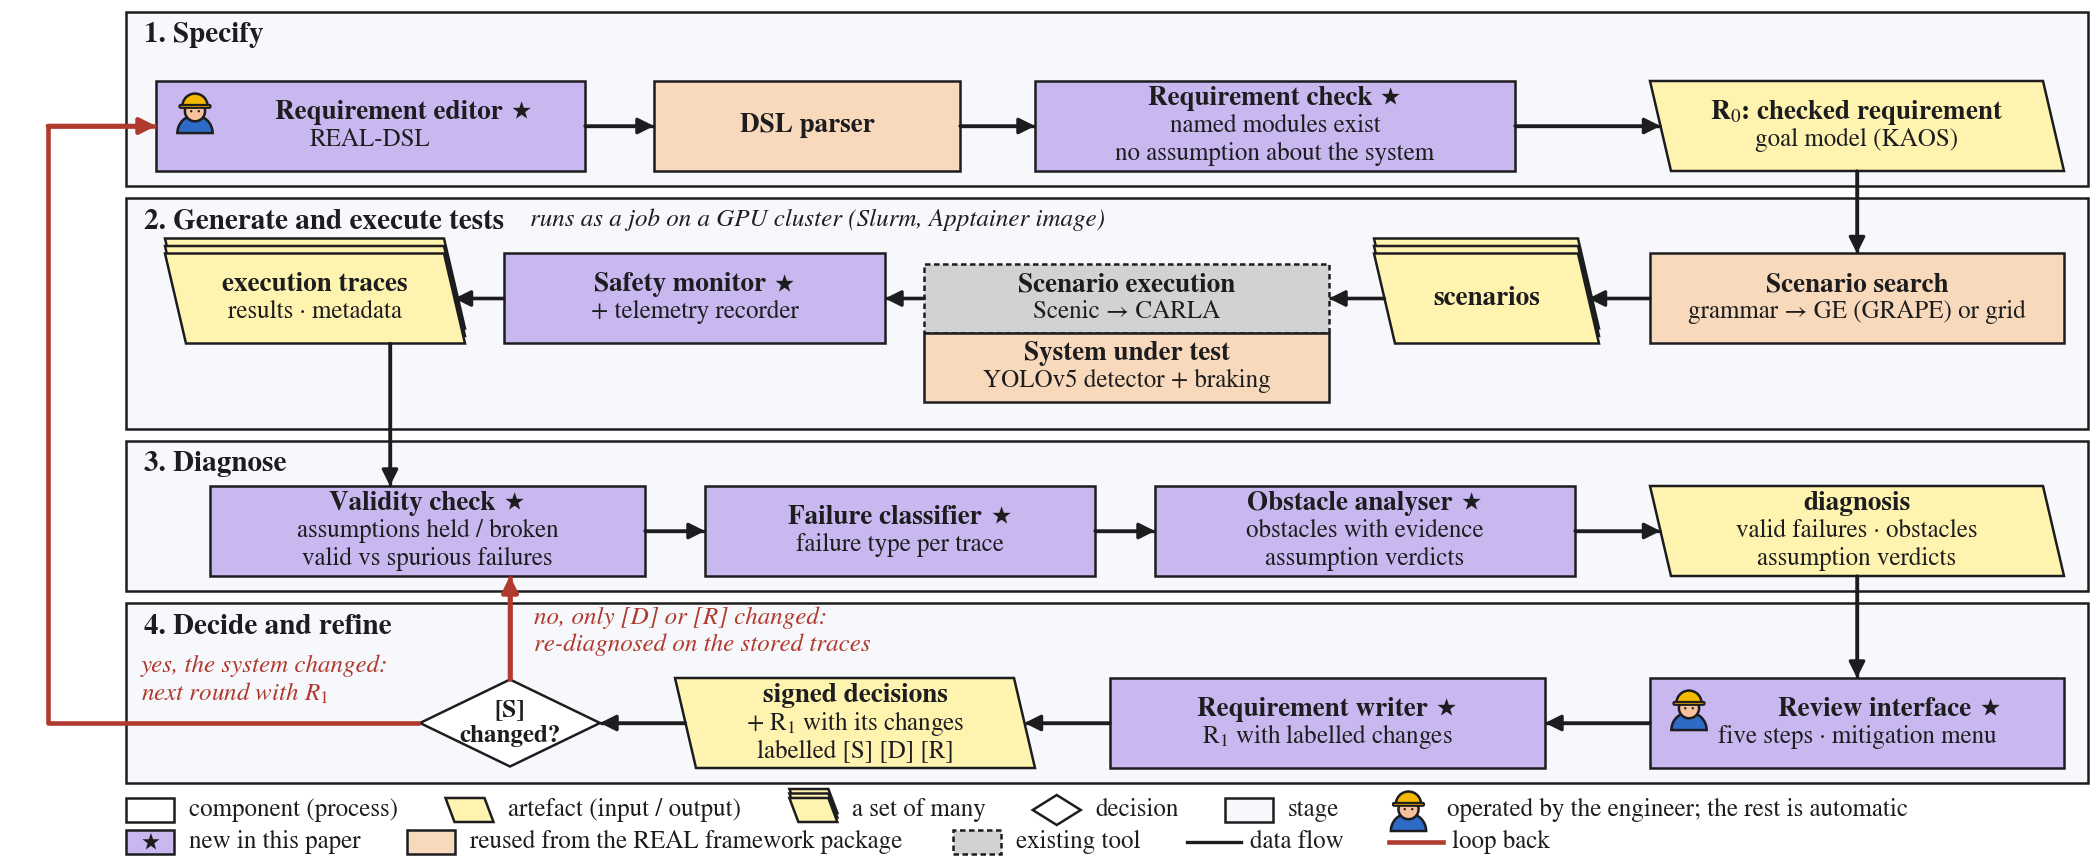
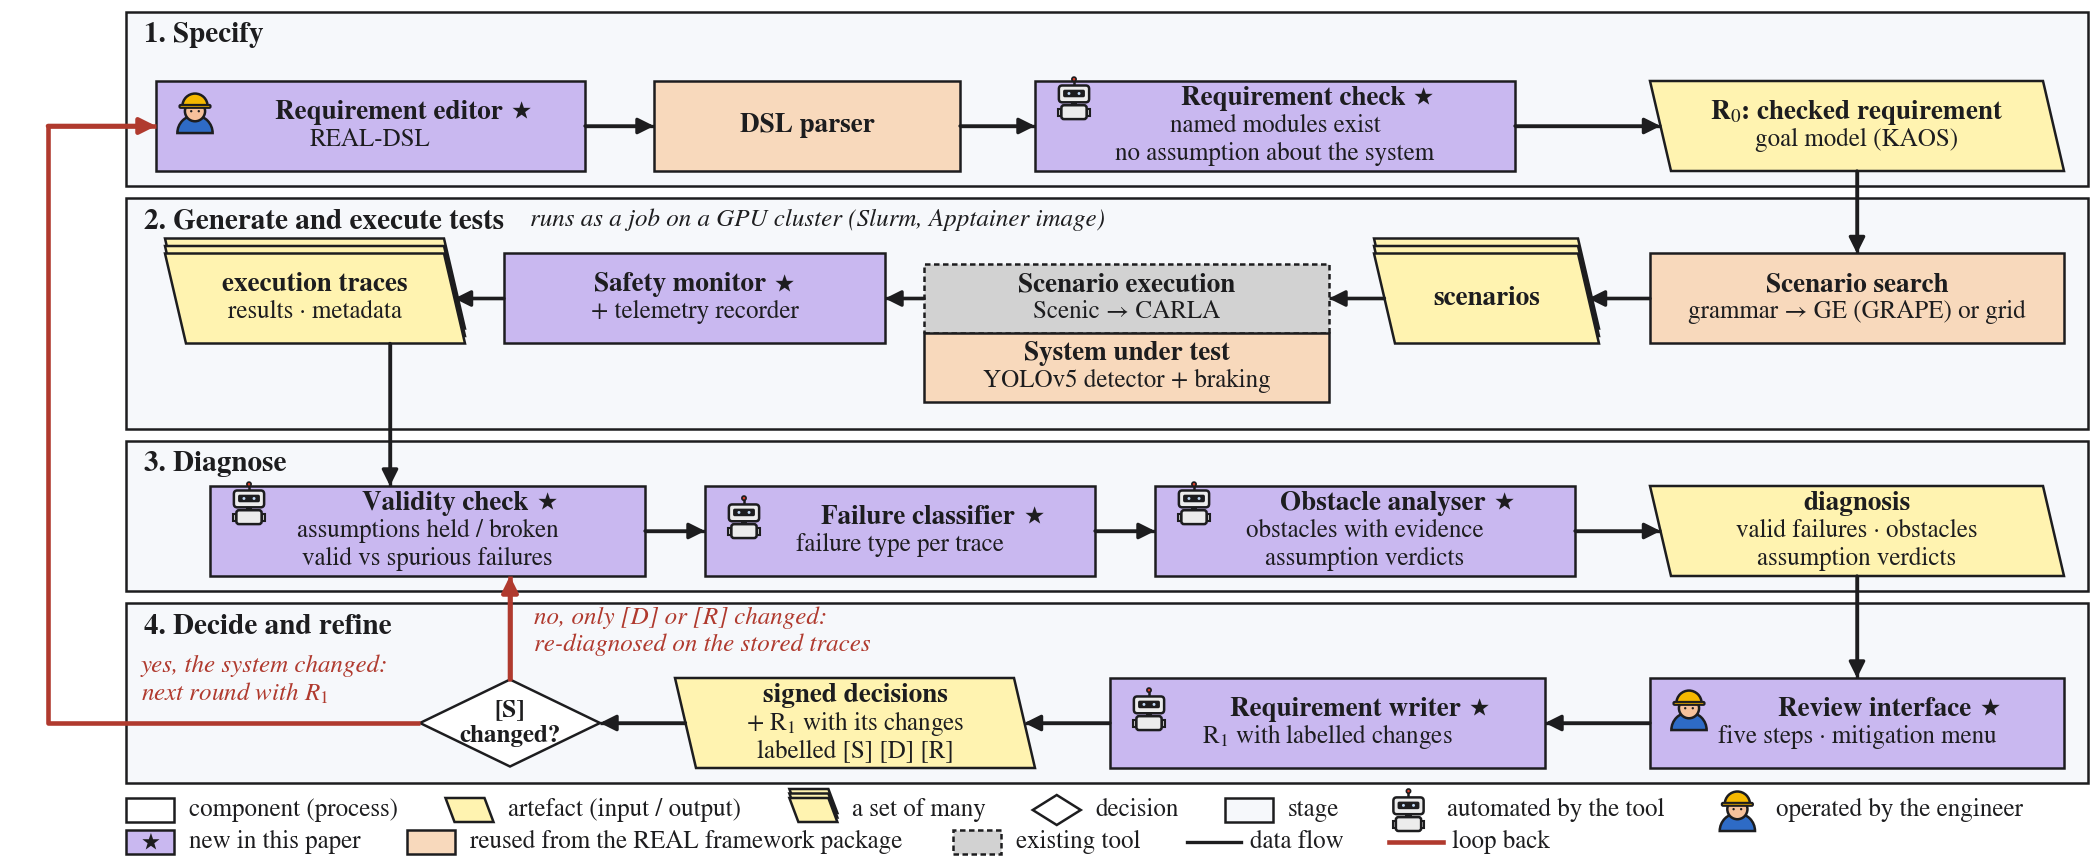
Fig. 1 v2: robot glyph on the five components that automate the framework's manual steps; caption aligned

diff --git a/docs/paper/latex/figures/make_fig1_v2.py b/docs/paper/latex/figures/make_fig1_v2.py
@@ -12,8 +12,9 @@ legend overflows the width.
 Flowchart rules (ISO 5807 / ANSI, as the owner stated them):
   rectangle = process (a component) · parallelogram = input/output (an
   artefact; stacked = a set of many) · diamond = decision · frame = stage
-Actor: one glyph, inside the two components a person operates (the engineer);
-  every other component runs automatically, which the legend states once
+Actors, inside the box they index, only where it matters: the engineer in the
+  two components a person operates; the robot in the five that automate work
+  the framework paper left to people (check, validity, classify, obstacles, write)
 Colour = provenance: violet + star = new in this paper · orange = reused from
   the REAL framework package · grey, dashed border = existing tool · yellow =
   artefact
@@ -67,6 +68,27 @@ def text(x, y, s, size=T_SUB, fit=None, **kw):
     return t
 
 
+def glyph_robot(cx, cy, h):
+    """The tool: a robot (antenna, visor with two eyes, body), drawn as vector patches."""
+    s = h
+    ax.plot([cx, cx], [cy + 0.30 * s, cy + 0.41 * s], color=INK, lw=0.6, zorder=9)
+    ax.add_patch(Circle((cx, cy + 0.45 * s), 0.05 * s, fc="#D9402B", ec=INK, lw=0.4, zorder=9))
+    ax.add_patch(FancyBboxPatch((cx - 0.36 * s, cy - 0.10 * s), 0.72 * s, 0.40 * s,
+                                boxstyle=f"round,pad=0,rounding_size={0.08 * s}",
+                                fc="#ECECEC", ec=INK, lw=0.6, zorder=9))
+    ax.add_patch(FancyBboxPatch((cx - 0.26 * s, cy + 0.02 * s), 0.52 * s, 0.18 * s,
+                                boxstyle=f"round,pad=0,rounding_size={0.04 * s}", fc=INK, ec="none", zorder=10))
+    for dx in (-0.12, 0.12):
+        ax.add_patch(Circle((cx + dx * s, cy + 0.11 * s), 0.035 * s, fc="#BFD8F5", ec="none", zorder=11))
+    ax.add_patch(Rectangle((cx - 0.08 * s, cy - 0.17 * s), 0.16 * s, 0.07 * s, fc=INK, ec="none", zorder=9))
+    ax.add_patch(FancyBboxPatch((cx - 0.30 * s, cy - 0.50 * s), 0.60 * s, 0.33 * s,
+                                boxstyle=f"round,pad=0,rounding_size={0.06 * s}",
+                                fc="#ECECEC", ec=INK, lw=0.6, zorder=9))
+    for sx in (-1, 1):
+        ax.add_patch(Rectangle((cx + sx * 0.34 * s - 0.04 * s, cy - 0.42 * s), 0.08 * s, 0.17 * s,
+                               fc="#CFCFCF", ec=INK, lw=0.5, zorder=8))
+
+
 def glyph_engineer(cx, cy, h):
     """The engineer: hard hat with a brim, face, shoulders, drawn as vector patches."""
     s = h
@@ -81,7 +103,7 @@ def glyph_engineer(cx, cy, h):
 
 
 def icon(name, cx, cy, h=ICON_H):
-    glyph_engineer(cx, cy, h)
+    (glyph_robot if name == "robot" else glyph_engineer)(cx, cy, h)
 
 
 def star_after(t, size):
@@ -101,8 +123,8 @@ def arrow(points, color=INK, lw=0.8, ls="-", z=6, head_len=0.32):
 # ------------------------------------------------------------------ shapes
 def component(x, y, w, h, kind, actor, title, lines=()):
     """A process: rectangle. kind: 'new' (violet, star), 'framework' (orange),
-    'tool' (grey, dashed). actor: 'engineer' where a person operates it, else None
-    (every other component runs automatically; the legend says so once)."""
+    'tool' (grey, dashed). actor: 'engineer' where a person operates it, 'robot'
+    where the tool automates work the framework paper left to people, else None."""
     fill = {"new": NEW, "framework": FRAMEWORK, "tool": TOOL}[kind]
     ax.add_patch(Rectangle((x, y), w, h, fc=fill, ec=INK, lw=0.6,
                            ls=DASHED if kind == "tool" else "-", zorder=3))
@@ -167,7 +189,7 @@ frame(0.25, 0.85, "4. Decide and refine")
 y, yc = 2.29, 2.44
 component(0.52, y, 1.43, BH, "new", "engineer", "Requirement editor", ["REAL-DSL"])
 component(2.18, y, 1.02, BH, "framework", None, "DSL parser")
-component(3.45, y, 1.60, BH, "new", None, "Requirement check",
+component(3.45, y, 1.60, BH, "new", "robot", "Requirement check",
           ["named modules exist", "no assumption about the system"])
 artefact(5.50, y, 1.38, BH, r"R$_0$: checked requirement", ["goal model (KAOS)"])
 arrow([(1.95, yc), (2.18, yc)])
@@ -190,10 +212,10 @@ arrow([(6.19, 2.29), (6.19, y + BH)])              # R0 feeds the scenario searc
 
 # ---- band 3, left to right -------------------------------------------------
 y, yc = 0.94, 1.09
-component(0.70, y, 1.45, BH, "new", None, "Validity check",
+component(0.70, y, 1.45, BH, "new", "robot", "Validity check",
           ["assumptions held / broken", "valid vs spurious failures"])
-component(2.35, y, 1.30, BH, "new", None, "Failure classifier", ["failure type per trace"])
-component(3.85, y, 1.40, BH, "new", None, "Obstacle analyser",
+component(2.35, y, 1.30, BH, "new", "robot", "Failure classifier", ["failure type per trace"])
+component(3.85, y, 1.40, BH, "new", "robot", "Obstacle analyser",
           ["obstacles with evidence", "assumption verdicts"])
 artefact(5.50, y, 1.38, BH, "diagnosis", ["valid failures · obstacles", "assumption verdicts"])
 arrow([(2.15, yc), (2.35, yc)])
@@ -204,7 +226,7 @@ arrow([(1.30, 1.715), (1.30, y + BH)])             # the traces feed the validit
 # ---- band 4, right to left -------------------------------------------------
 y, yc = 0.30, 0.45
 component(5.50, y, 1.38, BH, "new", "engineer", "Review interface", ["five steps · mitigation menu"])
-component(3.70, y, 1.45, BH, "new", None, "Requirement writer", [r"R$_1$ with labelled changes"])
+component(3.70, y, 1.45, BH, "new", "robot", "Requirement writer", [r"R$_1$ with labelled changes"])
 artefact(2.25, y, 1.20, BH, "signed decisions", [r"+ R$_1$ with its changes", "labelled [S] [D] [R]"])
 DX, DY, DHW, DHH = 1.70, yc, 0.30, 0.145
 decision(DX, DY, DHW, DHH, ["[S]", "changed?"])
@@ -261,8 +283,8 @@ lx = legend_item(lx, ly, lambda a, b: mini_art(a, b, stack=True), "a set of many
 lx = legend_item(lx, ly, mini_diamond, "decision")
 lx = legend_item(lx, ly, lambda a, b: ax.add_patch(Rectangle((a, b - 0.04), 0.16, 0.08, fc=FRAME_FILL,
                                                              ec=INK, lw=0.6, zorder=3)), "stage")
-lx = legend_item(lx, ly, lambda a, b: icon("engineer", a + 0.08, b),
-                 "operated by the engineer; the rest is automatic")
+lx = legend_item(lx, ly, lambda a, b: icon("robot", a + 0.08, b), "automated by the tool")
+lx = legend_item(lx, ly, lambda a, b: icon("engineer", a + 0.08, b), "operated by the engineer")
 if lx > W - 0.02:
     OVERFLOWS.append(f"legend line 1 ends at {lx:.2f} in")
 

diff --git a/docs/paper/latex/main.tex b/docs/paper/latex/main.tex
@@ -78,8 +78,8 @@ the review interface; the tool writes $R_1$ with every change labelled. If the
 system changed ([S]), the next round starts from stage~1 with $R_1$; if only
 assumptions or the requirement changed ([D], [R]), stage~3 re-diagnoses the
 stored traces without new simulation. Rectangles are components, parallelograms
-artefacts, the diamond a decision; a robot marks what runs automatically, a
-hard hat what the engineer operates. Violet~$\bigstar$: new in this paper. Orange: reused from the REAL framework
+artefacts, the diamond a decision; a robot marks the steps the tool automates
+that the framework left to people, a hard hat the two the engineer operates. Violet~$\bigstar$: new in this paper. Orange: reused from the REAL framework
 package~\cite{real2026}. Grey, dashed: existing tools~\cite{carla2017,scenic2023,grape2022}.
 Yellow: artefacts. (Regenerate: \texttt{figures/make\_fig1\_v2.py}.)}
 \label{fig:arch}

diff --git a/docs/paper/latex/figures/architecture_diagram_v2.md b/docs/paper/latex/figures/architecture_diagram_v2.md
@@ -204,11 +204,13 @@ detector and controller run in the loop.
   under the Validity check, so the *no* branch goes **straight up** into it
   and the *yes* branch is the only line in the left margin; nothing crosses,
   and both labels sit horizontally inside the frame beside their line.
-- **One actor glyph, only where it matters:** the engineer inside the two
-  components a person operates (Requirement editor, Review interface). The
-  robot glyph was tried in every automated component and dropped (owner,
-  2026-10-20): automation is the default and marking it everywhere was noise;
-  the legend states once that every other component runs automatically.
+- **Actor glyphs only where they matter (owner, 2026-10-20):** the engineer
+  inside the two components a person operates (Requirement editor, Review
+  interface); the robot inside the five that automate work the framework
+  paper left to people (Requirement check, Validity check, Failure
+  classifier, Obstacle analyser, Requirement writer). None on stage 2, whose
+  automation is obvious and whose tools are reused; a robot in every
+  automated box was tried and rejected as noise.
 - **Artefacts named by function:** `run folder` → *execution traces (results,
   metadata)*; `decisions.json` → *signed decisions (+ R₁ with its changes,
   labelled [S] [D] [R])*. File names belong in the text, not the figure.
